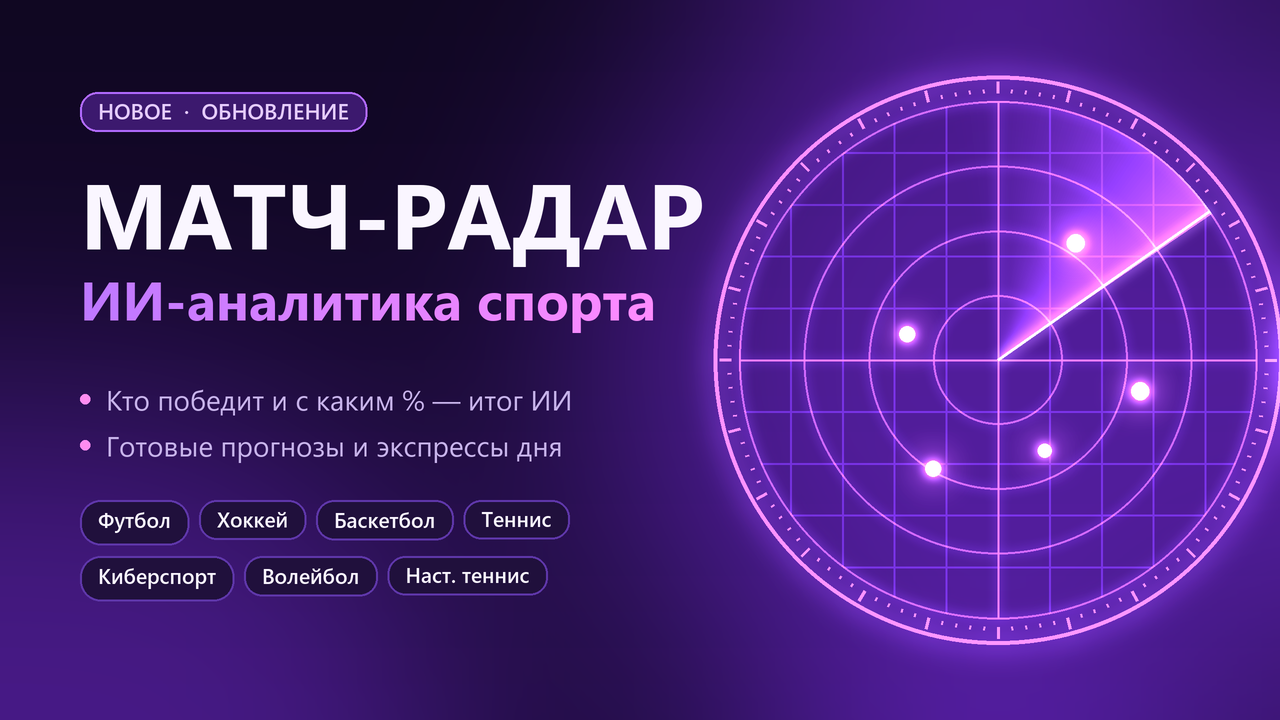
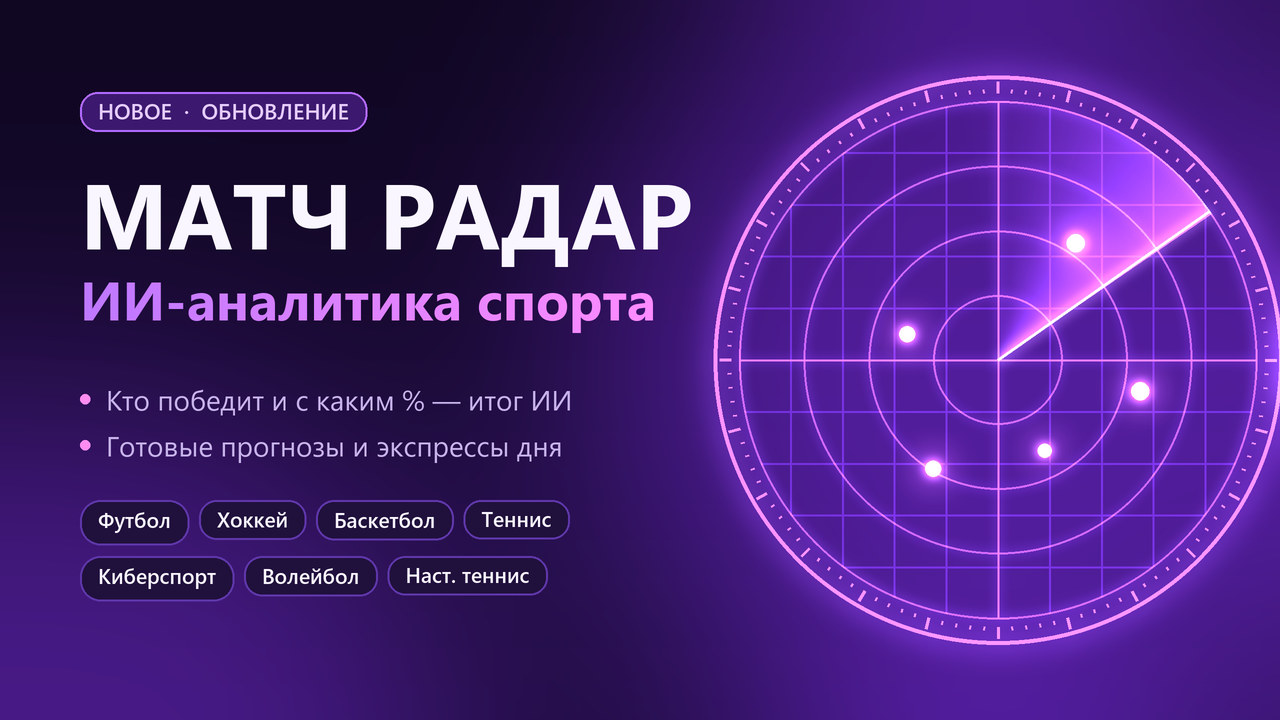
Brand name: МАТЧ РАДАР (no hyphen) everywhere

Changed region(s): [[0.2812, 0.2444, 0.5625, 0.3667]]

diff --git a/bot/webapp/static/app.js b/bot/webapp/static/app.js
@@ -2384,7 +2384,7 @@ an_news: "News (injuries, form, suspensions)",
   // itself stays in Russian (one shared cached analysis per match).
   const HL = {
     ru: {
-      brand_sub: "AI ПРОГНОЗЫ", trial_on: "MAX бесплатно — осталось {n} дн. Пользуйтесь всем!", exf_bonus: "Бонусных экспрессов за друзей: {n}", inv_h: "👥 Пригласите друга", inv_t: "За каждого друга: <b>+{d} дня MAX</b> и <b>+{e} экспресс</b> сразу.", inv_btn: "📨 Пригласить друга", inv_share: "Матч-Радар — ИИ-прогнозы и экспрессы на спорт. Заходи:", exf_btn: "🔍 Найти экспресс", exf_busy: "⏳ ИИ собирает экспресс…", exf_mine: "Мои экспрессы", exf_one: "Ваш экспресс", exf_all: "Экспрессы дня", exf_unlim: "Админ: без ограничений", exf_free: "Бесплатно: 1 экспресс раз в 3 дня", exf_left: "Осталось сегодня: {n} из {l}", exf_next: "Следующий экспресс: {t}", exf_more: "⚡ MAX — 2 экспресса каждый день", ws_title: "🏁 Угадан победитель", ws_sub: "{w} из {n} матчей", ws_pred: "ИИ: победит", vd_title: "🏁 Итог ИИ", vd_win: "Победит <b>{t}</b> — <b>{p}%</b>", vd_draw: "Ничья — <b>{p}%</b>", vd_other: "{t} — {p}%", vd_other_draw: "Ничья — {p}%", vd_pick: "Уверенная ставка ИИ", vd_pick_risky: "Ставка ИИ (рискованная)", vd_note: "⚠ Это только наш анализ ИИ, а не гарантия результата. Решение о ставке вы принимаете сами. 18+", all_sports: "Все",
+      brand_sub: "AI ПРОГНОЗЫ", trial_on: "MAX бесплатно — осталось {n} дн. Пользуйтесь всем!", exf_bonus: "Бонусных экспрессов за друзей: {n}", inv_h: "👥 Пригласите друга", inv_t: "За каждого друга: <b>+{d} дня MAX</b> и <b>+{e} экспресс</b> сразу.", inv_btn: "📨 Пригласить друга", inv_share: "Матч Радар — ИИ-прогнозы и экспрессы на спорт. Заходи:", exf_btn: "🔍 Найти экспресс", exf_busy: "⏳ ИИ собирает экспресс…", exf_mine: "Мои экспрессы", exf_one: "Ваш экспресс", exf_all: "Экспрессы дня", exf_unlim: "Админ: без ограничений", exf_free: "Бесплатно: 1 экспресс раз в 3 дня", exf_left: "Осталось сегодня: {n} из {l}", exf_next: "Следующий экспресс: {t}", exf_more: "⚡ MAX — 2 экспресса каждый день", ws_title: "🏁 Угадан победитель", ws_sub: "{w} из {n} матчей", ws_pred: "ИИ: победит", vd_title: "🏁 Итог ИИ", vd_win: "Победит <b>{t}</b> — <b>{p}%</b>", vd_draw: "Ничья — <b>{p}%</b>", vd_other: "{t} — {p}%", vd_other_draw: "Ничья — {p}%", vd_pick: "Уверенная ставка ИИ", vd_pick_risky: "Ставка ИИ (рискованная)", vd_note: "⚠ Это только наш анализ ИИ, а не гарантия результата. Решение о ставке вы принимаете сами. 18+", all_sports: "Все",
       vk_on: "Поиск вилок запущен", vk_stop: "Стоп", vk_stopped: "Поиск вилок остановлен", vk_until: "до {d}", vk_off: "Поиск вилок выключен", vk_start: "Запустить на {n} дня", vk_started: "Поиск вилок запущен на {n} дня",
       t_ai: "ИИ-Прогнозы", t_picks: "Готовые прогнозы", t_express: "Экспрессы", t_vilki: "Вилки",
       t_settings: "Настройки вилок", t_sub: "MAX-доступ", t_admin: "Админ-панель", t_help: "Помощь", t_aistats: "Статистика ИИ",
@@ -2474,7 +2474,7 @@ an_news: "News (injuries, form, suspensions)",
       h_note: "The service is analytics: it does not accept bets and does not guarantee winnings. 18+",
     },
     tg: {
-      brand_sub: "ПЕШГӮИҲОИ AI", trial_on: "MAX ройгон — {n} рӯз монд. Аз ҳама истифода баред!", exf_bonus: "Экспрессҳои бонусӣ барои дӯстон: {n}", inv_h: "👥 Дӯстро даъват кунед", inv_t: "Барои ҳар дӯст: <b>+{d} рӯз MAX</b> ва <b>+{e} экспресс</b>.", inv_btn: "📨 Даъвати дӯст", inv_share: "Матч-Радар — пешгӯиҳои ИИ барои варзиш. Биё:", exf_btn: "🔍 Ёфтани экспресс", exf_busy: "⏳ ИИ экспресс ҷамъ мекунад…", exf_mine: "Экспрессҳои ман", exf_one: "Экспресси шумо", exf_all: "Экспрессҳои рӯз", exf_unlim: "Админ: бе маҳдудият", exf_free: "Ройгон: 1 экспресс дар 3 рӯз", exf_left: "Имрӯз монд: {n} аз {l}", exf_next: "Экспресси навбатӣ: {t}", exf_more: "⚡ MAX — 2 экспресс ҳар рӯз", ws_title: "🏁 Ғолиб дуруст", ws_sub: "{w} аз {n} бозӣ", ws_pred: "ИИ: ғолиб", vd_title: "🏁 Хулосаи ИИ", vd_win: "<b>{t}</b> мебарад — <b>{p}%</b>", vd_draw: "Мусовӣ — <b>{p}%</b>", vd_other: "{t} — {p}%", vd_other_draw: "Мусовӣ — {p}%", vd_pick: "Ставкаи боэътимоди ИИ", vd_pick_risky: "Ставкаи ИИ (хатарнок)", vd_note: "⚠ Ин танҳо таҳлили ИИ аст, на кафолати натиҷа. Қарорро худатон мебароред. 18+", all_sports: "Ҳама",
+      brand_sub: "ПЕШГӮИҲОИ AI", trial_on: "MAX ройгон — {n} рӯз монд. Аз ҳама истифода баред!", exf_bonus: "Экспрессҳои бонусӣ барои дӯстон: {n}", inv_h: "👥 Дӯстро даъват кунед", inv_t: "Барои ҳар дӯст: <b>+{d} рӯз MAX</b> ва <b>+{e} экспресс</b>.", inv_btn: "📨 Даъвати дӯст", inv_share: "Матч Радар — пешгӯиҳои ИИ барои варзиш. Биё:", exf_btn: "🔍 Ёфтани экспресс", exf_busy: "⏳ ИИ экспресс ҷамъ мекунад…", exf_mine: "Экспрессҳои ман", exf_one: "Экспресси шумо", exf_all: "Экспрессҳои рӯз", exf_unlim: "Админ: бе маҳдудият", exf_free: "Ройгон: 1 экспресс дар 3 рӯз", exf_left: "Имрӯз монд: {n} аз {l}", exf_next: "Экспресси навбатӣ: {t}", exf_more: "⚡ MAX — 2 экспресс ҳар рӯз", ws_title: "🏁 Ғолиб дуруст", ws_sub: "{w} аз {n} бозӣ", ws_pred: "ИИ: ғолиб", vd_title: "🏁 Хулосаи ИИ", vd_win: "<b>{t}</b> мебарад — <b>{p}%</b>", vd_draw: "Мусовӣ — <b>{p}%</b>", vd_other: "{t} — {p}%", vd_other_draw: "Мусовӣ — {p}%", vd_pick: "Ставкаи боэътимоди ИИ", vd_pick_risky: "Ставкаи ИИ (хатарнок)", vd_note: "⚠ Ин танҳо таҳлили ИИ аст, на кафолати натиҷа. Қарорро худатон мебароред. 18+", all_sports: "Ҳама",
       vk_on: "Ҷустуҷӯи вилка фаъол аст", vk_stop: "Қатъ", vk_stopped: "Ҷустуҷӯи вилка қатъ шуд", vk_until: "то {d}", vk_off: "Ҷустуҷӯи вилка хомӯш аст", vk_start: "Барои {n} рӯз оғоз", vk_started: "Ҷустуҷӯи вилка барои {n} рӯз оғоз шуд",
       t_ai: "Пешгӯиҳои ИИ", t_picks: "Пешгӯиҳои тайёр", t_express: "Экспрессҳо", t_vilki: "Вилкаҳо",
       t_settings: "Танзимоти вилка", t_sub: "Дастрасии MAX", t_admin: "Панели админ", t_help: "Кумак", t_aistats: "Омори ИИ",

diff --git a/bot/webapp/static/index.html b/bot/webapp/static/index.html
@@ -3,10 +3,10 @@
 <head>
 <meta charset="utf-8">
 <meta name="viewport" content="width=device-width, initial-scale=1, maximum-scale=1, user-scalable=no">
-<title>Матч-Радар</title>
+<title>Матч Радар</title>
 <script src="https://telegram.org/js/telegram-web-app.js"></script>
-<link rel="stylesheet" href="style.css?v=202610061600">
-<link rel="stylesheet" href="home.css?v=202610061600">
+<link rel="stylesheet" href="style.css?v=202610061700">
+<link rel="stylesheet" href="home.css?v=202610061700">
 </head>
 <body>
 <div class="bg-anim" aria-hidden="true">
@@ -49,7 +49,7 @@
         </g>
       </svg>
   </div>
-  <div class="splash-title">Матч-Радар</div>
+  <div class="splash-title">Матч Радар</div>
   <div class="splash-bar"><span></span></div>
 </div>
 <div id="app">
@@ -87,7 +87,7 @@
           <circle cx="31" cy="45" r="2.4" style="animation-delay:2.45s"/>
         </g>
       </svg>
-      <span class="brand-text"><b>МАТЧ-РАДАР</b><small>AI ПРОГНОЗЫ</small></span>
+      <span class="brand-text"><b>МАТЧ РАДАР</b><small>AI ПРОГНОЗЫ</small></span>
     </div>
     <div class="topbar-right">
       <div class="lang-picker">
@@ -163,6 +163,6 @@
     </div>
   </div>
 </div>
-<script src="app.js?v=202610061600"></script>
+<script src="app.js?v=202610061700"></script>
 </body>
 </html>

diff --git a/bot/webapp/static/home.css b/bot/webapp/static/home.css
@@ -340,7 +340,7 @@ html, body { background: radial-gradient(ellipse at 50% -10%, #241042 0%, #0b061
 .vk-run { display: flex; align-items: center; justify-content: space-between; gap: 10px; flex-wrap: wrap; background: linear-gradient(180deg, #24173d, #170f29); border: 1px solid rgba(178, 107, 255, 0.4); border-radius: 14px; padding: 10px 12px; margin-bottom: 12px; font-weight: 800; font-size: 13px; box-shadow: inset 0 1px 0 rgba(255,255,255,0.12), 0 4px 0 #0f0820; }
 .vk-run .pro-buy { padding: 9px 12px; font-size: 13px; }
 
-/* ===== Матч-Радар animated logo (2026-10-03): sweeping beam + blips that light up as
+/* ===== Матч Радар animated logo (2026-10-03): sweeping beam + blips that light up as
    the beam passes (blip delays match the beam angle; one turn = 3 s) ===== */
 .radar-logo { width: 42px; height: 42px; filter: drop-shadow(0 0 8px rgba(178, 107, 255, 0.7)); flex: none; }
 .radar-splash { width: 120px; height: 120px; }

diff --git a/bot/handlers/commands.py b/bot/handlers/commands.py
@@ -1178,7 +1178,7 @@ def register_handlers(
                 return
         ref = f"https://t.me/{bot_username}?start={chat_id}" if bot_username else ""
         text = (
-            "📡 <b>Матч-Радар</b> — ИИ-аналитика футбольных матчей\n\n"
+            "📡 <b>Матч Радар</b> — ИИ-аналитика футбольных матчей\n\n"
             "🧠 Шансы в процентах на любой матч — по названиям или скриншоту\n"
             "📋 Готовые прогнозы и 📈 экспрессы каждый день\n"
             "⚡ Вилки у 9 лицензированных букмекеров\n\n"
@@ -1188,7 +1188,7 @@ def register_handlers(
         )
         rows = []
         if webapp_url:
-            rows.append([InlineKeyboardButton(text="📡 Открыть Матч-Радар", web_app=WebAppInfo(url=webapp_url))])
+            rows.append([InlineKeyboardButton(text="📡 Открыть Матч Радар", web_app=WebAppInfo(url=webapp_url))])
         support = await _support_url(bot, chat_id)
         if support:
             rows.append([InlineKeyboardButton(text="🎧 Поддержка", url=support)])
@@ -1578,7 +1578,7 @@ def register_handlers(
             await callback.message.edit_text(
                 f"🟢 Поиск вилок запущен до {until_txt} МСК. Новые вилки будут приходить сюда.",
                 reply_markup=InlineKeyboardMarkup(inline_keyboard=[[InlineKeyboardButton(
-                    text="📡 Открыть Матч-Радар", web_app=WebAppInfo(url=webapp_url))]]) if webapp_url else None,
+                    text="📡 Открыть Матч Радар", web_app=WebAppInfo(url=webapp_url))]]) if webapp_url else None,
             )
         except Exception:
             pass

diff --git a/bot/main.py b/bot/main.py
@@ -62,7 +62,7 @@ def _open_app_markup(_language: str = "ru"):
     url = os.environ.get("WEBAPP_URL", "").rstrip("/")
     if not url:
         return None
-    return InlineKeyboardMarkup(inline_keyboard=[[InlineKeyboardButton(text="📡 Открыть Матч-Радар", web_app=WebAppInfo(url=url))]])
+    return InlineKeyboardMarkup(inline_keyboard=[[InlineKeyboardButton(text="📡 Открыть Матч Радар", web_app=WebAppInfo(url=url))]])
 
 
 async def main() -> None:
@@ -240,7 +240,7 @@ async def main() -> None:
         try:
             await bot.set_chat_menu_button(
                 menu_button=MenuButtonWebApp(
-                    text="📡 Матч-Радар",
+                    text="📡 Матч Радар",
                     # ?v= changes on every restart: Telegram clients cache the Mini App page
                     # by URL, so a new deploy would otherwise keep showing the old version.
                     web_app=WebAppInfo(url=f"{config.webapp_url}/?v={int(time.time())}"),

diff --git a/scripts/gen_update_banner.py b/scripts/gen_update_banner.py
@@ -1,4 +1,4 @@
-"""Channel announcement banner for the Матч-Радар relaunch post (owner 2026-10-06).
+"""Channel announcement banner for the Матч Радар relaunch post (owner 2026-10-06).
 Layout: glowing radar on the right, clean text column on the left (no overlap), sport
 "pills" row and a CTA pill at the bottom. Rendered at 2x and downscaled for smooth edges.
 Run: python scripts/gen_update_banner.py -> bot/assets/update_banner.png (1280x720)."""
@@ -123,7 +123,7 @@ def main():
          (60, 25, 110), (178, 107, 255), (230, 205, 255))
 
     title = ImageFont.truetype(BOLD, 92 * S)
-    d.text((x0, 150 * S), "МАТЧ-РАДАР", font=title, fill=WHITE)
+    d.text((x0, 150 * S), "МАТЧ РАДАР", font=title, fill=WHITE)
     # gradient second line
     grad_font = ImageFont.truetype(BOLD, 54 * S)
     text = "ИИ-аналитика спорта"

diff --git a/bot/analysis/picks.py b/bot/analysis/picks.py
@@ -122,7 +122,7 @@ async def push_new_expresses(repo: Repository, bot, webapp_url: str, admin_chat_
         return 0
     day_start = now.astimezone(MSK).replace(hour=0, minute=0, second=0, microsecond=0).astimezone(timezone.utc)
     teaser_today = repo.expresses_sent_since(day_start.isoformat()) == 0
-    button = [[InlineKeyboardButton(text="📡 Открыть в Матч-Радаре", web_app=WebAppInfo(url=webapp_url))]] if webapp_url else []
+    button = [[InlineKeyboardButton(text="📡 Открыть в Матч Радаре", web_app=WebAppInfo(url=webapp_url))]] if webapp_url else []
     sent = 0
     for express in fresh:
         repo.mark_express_sent(express_key(express))

diff --git a/bot/core/monitor.py b/bot/core/monitor.py
@@ -611,7 +611,7 @@ async def _send_expiry_reminders(
         kind = "пробный период" if billing.on_trial(user, now) else "подписка"
         message = (
             f"{vi('hourglass')} Ваш {kind} заканчивается менее чем через 24 часа.\n\n"
-            "Оформите MAX в приложении «Матч-Радар» (кнопка ниже → «💎 MAX»), чтобы не "
+            "Оформите MAX в приложении «Матч Радар» (кнопка ниже → «💎 MAX»), чтобы не "
             "потерять ИИ-прогнозы, экспрессы и вилки."
         )
         try:

diff --git a/scripts/gen_radar_avatar.py b/scripts/gen_radar_avatar.py
@@ -1,4 +1,4 @@
-"""Матч-Радар avatar (channel / bot photo): purple radar -- tick-marked outer dial, many
+"""Матч Радар avatar (channel / bot photo): purple radar -- tick-marked outer dial, many
 thin rings, crosshair + diagonals, a soft fading sweep and glowing blips.
 Run: python scripts/gen_radar_avatar.py -> bot/assets/radar_avatar.png (1024x1024)."""
 from __future__ import annotations
